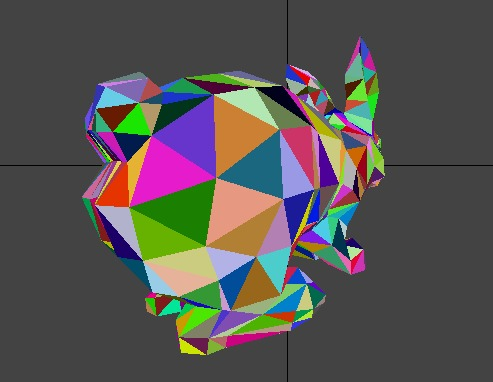
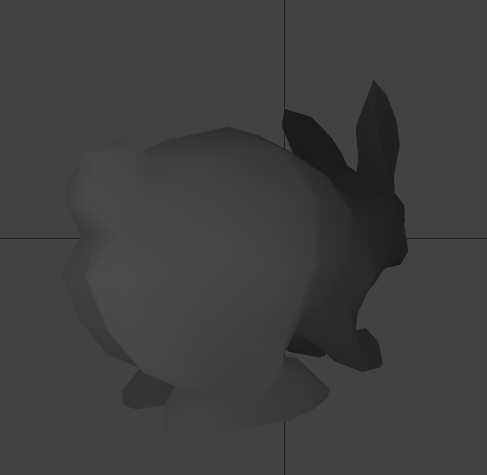
Report fixing - grayscale depth

diff --git a/Viewer/src/Renderer.cpp b/Viewer/src/Renderer.cpp
@@ -652,8 +652,7 @@ void Renderer::DrawTriangle(const std::vector<glm::vec3>& vertexPositions, int f
 					if (z >= zBuff[x][y])
 					{
 						zBuff[x][y] = z;
-						PutPixel(x, y, color);
-						//PutPixel(x, y, glm::vec3(0.156, 0.592, 0.976));
+						PutPixel(x, y, glm::vec3((zBuff[x][y] - 1.0041) / (1.0052 - 1.0041), (zBuff[x][y] - 1.0041) / (1.0052 - 1.0041), (zBuff[x][y] - 1.0041) / (1.0052 - 1.0041))); // (val - min) / (max - min)
 					}
 				}
 			}
